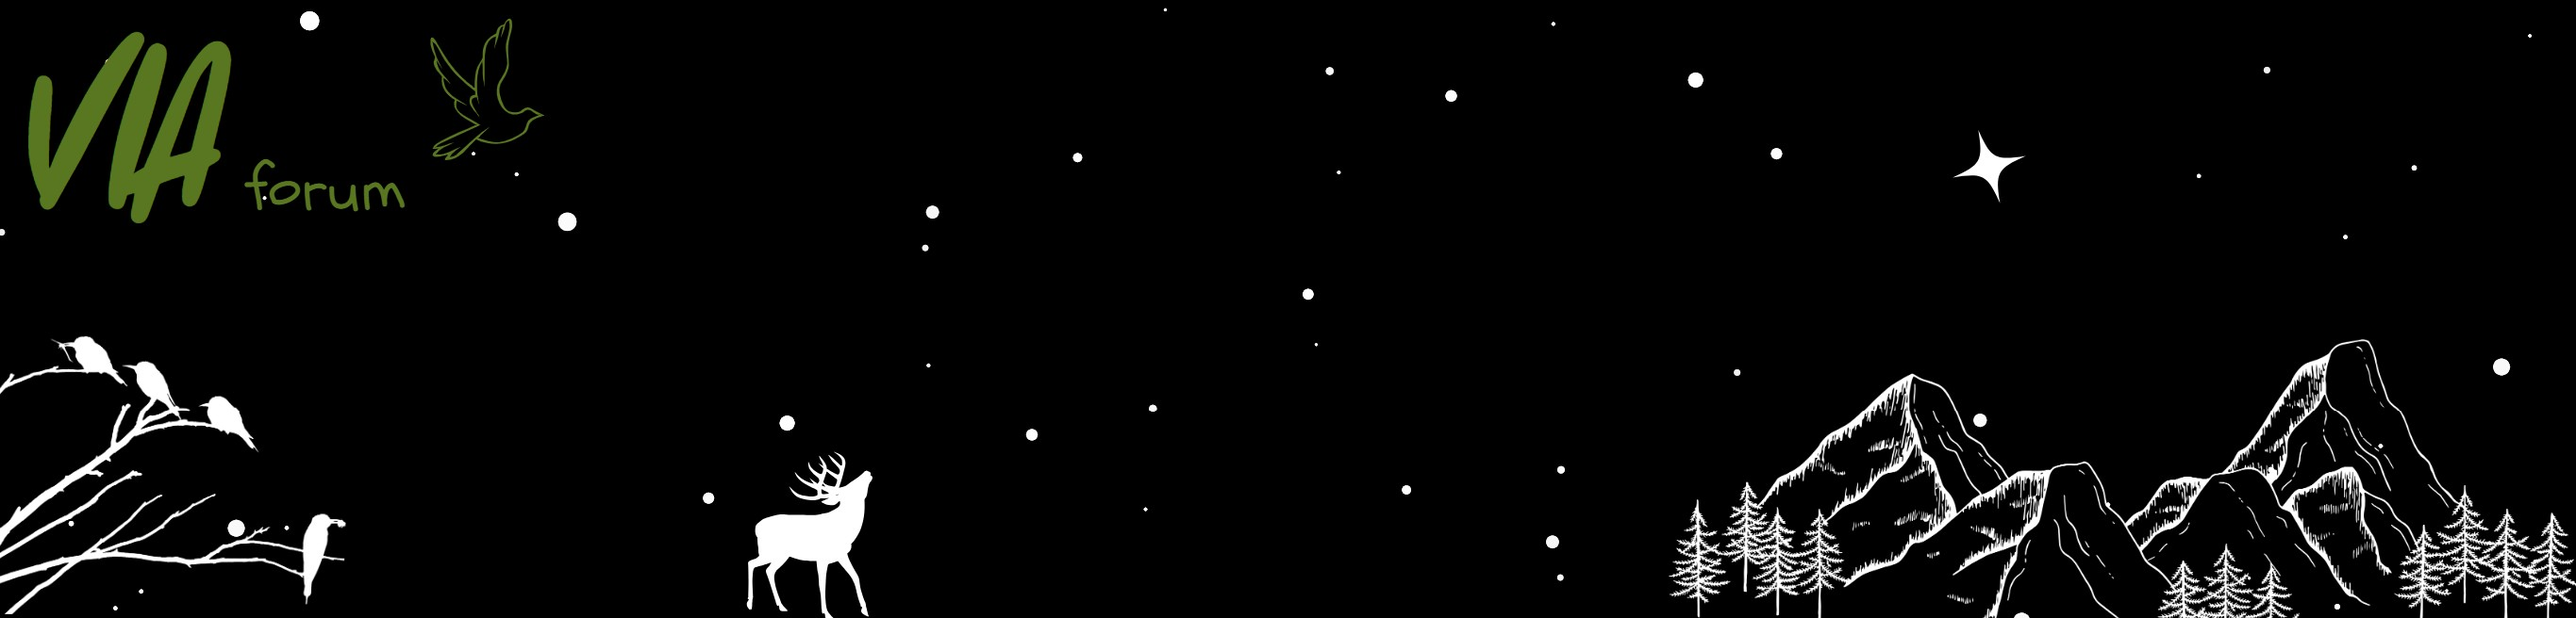
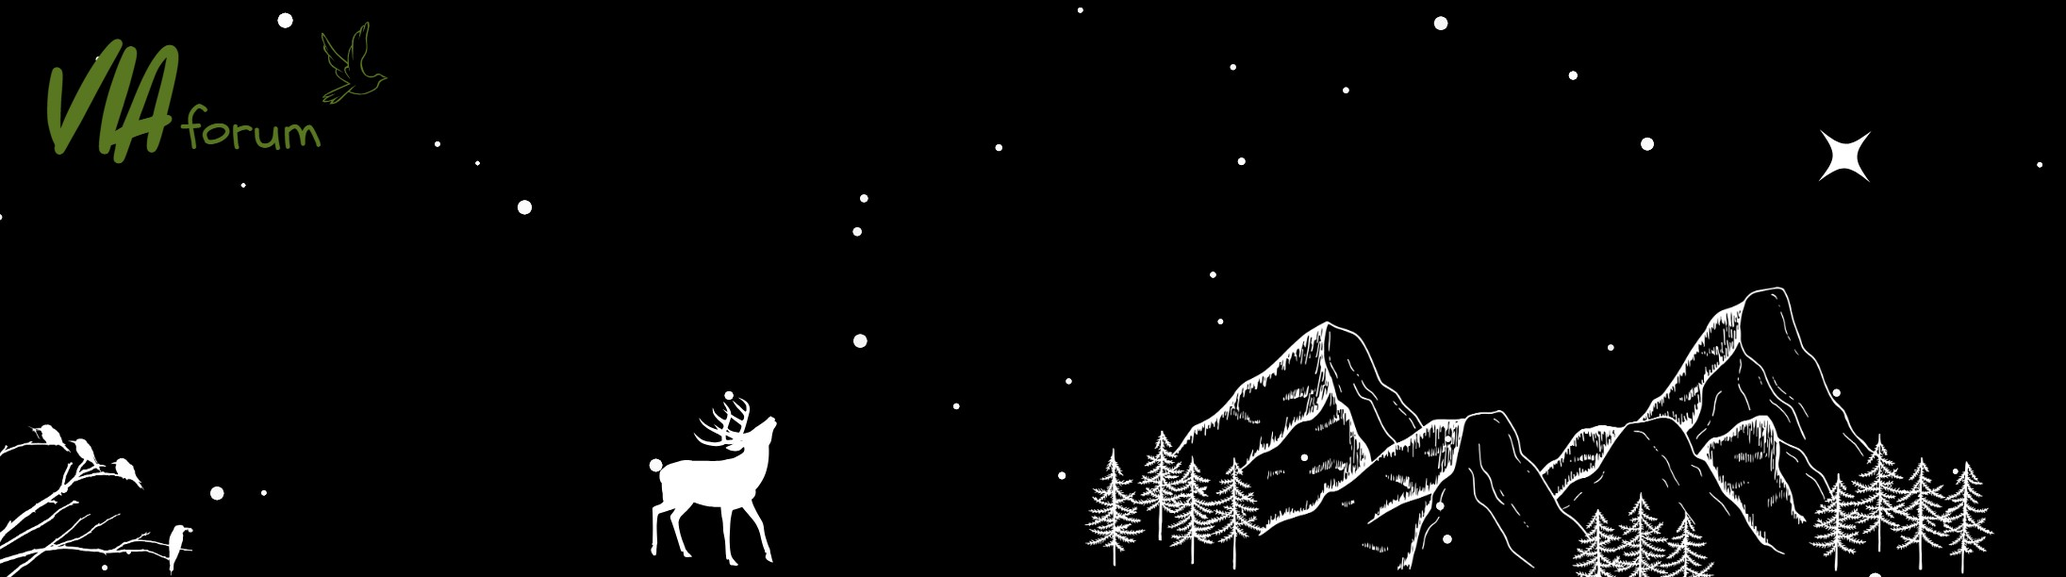
Design updates.

diff --git a/src/components/Header/Header.jsx b/src/components/Header/Header.jsx
@@ -1,5 +1,11 @@
 import { NavLink, useNavigate } from "react-router-dom"
+import { AppContext } from "../../store/app.context"
+import { useContext } from "react"
+import { signOut } from "firebase/auth";
+import { auth } from "../../config/firebase-config";
 import './Header.css'
+import { useReducer } from "react";
+
 export default function Header() {
     const navigate = useNavigate();
 
@@ -11,11 +17,32 @@ export default function Header() {
         navigate('/login');
     }
 
+    const { user, userData, setAppState } = useContext(AppContext);
+    
+    const logout = () => {
+      signOut(auth)
+        .then(() => {
+          setAppState({
+            user: null,
+            userData: null
+          });
+          navigate('/login');
+        })
+        .catch((error) => {
+          console.error(error.message);
+        })
+    }
+    
+
     return (
         <header>
             <div className="button-container">
-                <button id="btn-register" onClick={ handleRegister }>Register</button>
-                <button onClick={ handleLogin }>Login</button>
+            {!user && <button id="btn-register" onClick={ handleRegister }>Register</button>}
+            {!user && <button onClick={ handleLogin }>Login</button>}
+            {user && <button onClick={logout} id="btn-logout">Logout</button>}
+            </div>
+            <div className="welcome-container">
+                {userData && <span>Welcome, {userData.firstName}!</span>}
             </div>
         </header>
     )

diff --git a/src/components/Header/Header.css b/src/components/Header/Header.css
@@ -4,11 +4,13 @@ header {
     align-items: flex-start;
     justify-content: flex-end;
     position: relative;
-    height: 45vh;
     margin: 0;
     background: url("../../common/images/Header.jpg") no-repeat;
-    background-size: contain;
+    background-size: cover;
+    background-position: center;
     border: none;
+    height: 50vh;
+    min-width: 100%;
 }
 
 header .button-container {
@@ -22,7 +24,7 @@ button {
     background-color: #4e7800;
     color: white;
     border: none;
-    padding: 0.5rem 1rem;
+    padding: 0.5rem 1rem 0.5rem 1rem;
     border-radius: 0.25rem;
     cursor: pointer;
 }
@@ -33,3 +35,19 @@ button {
     text-decoration: underline;
 }
 
+.welcome-container {
+    display: flex;
+    justify-content: center;
+    align-items: center;
+    width: 100%;
+    position: absolute;
+    top: 50%;
+    transform: translateY(-50%);
+    text-align: center;
+}
+
+span {
+    color: white;
+    font-size: 1.5rem;
+    font-weight: bold;
+}

diff --git a/src/App.jsx b/src/App.jsx
@@ -46,18 +46,18 @@ export default function App()  {
 
     return (
       <BrowserRouter>
-          <Header></Header>
-          <div id="body-id">
-              <AppContext.Provider value={{ ...appState, setAppState }}>
+          <AppContext.Provider value={{ ...appState, setAppState }}>
+              <Header></Header>
+              <div id="body-id">
                   <Routes>
                       <Route path="/" element={<Home />} />
                       <Route path="/register" element={<Register />} />
                       <Route path="/login" element={<Login />} />
                       <Route path="*" element={<NotFound/>} />          
                   </Routes>
-              </AppContext.Provider>
-          </div>
-          <Footer></Footer>
+              </div>
+              <Footer></Footer>
+          </AppContext.Provider>
       </BrowserRouter>
     )
 }

diff --git a/src/App.css b/src/App.css
@@ -1,9 +1,38 @@
-#body-id {
-    font-family: 'Gill Sans', 'Gill Sans MT', Calibri, 'Trebuchet MS', sans-serif;
+html, body {
+    height: 100%;
     margin: 0;
     padding: 0;
+    display: flex;
+    flex-direction: column;
+}
+
+header {
+    margin: 0; 
+    padding: 0;
+}
+
+#body-id {
+    margin: 0;
+    flex: 1;
     display: flex;
     align-items: flex-start;
     justify-content: center;
     position: relative;
+    min-height: 450px;
+    background-color: rgba(188, 186, 186, 0.8);
+}
+
+:root {
+    font-family: 'Gill Sans', 'Gill Sans MT', Calibri, 'Trebuchet MS', sans-serif;
+}
+
+footer {
+    width: 100%;
+    background-color: #929292;
+    color: white;
+    text-align: center;
+    padding: 1rem;
+    position: relative;
+    bottom: 0;
+    margin: 0;
 }

diff --git a/src/index.css b/src/index.css
@@ -6,4 +6,5 @@
 
 :root {
     background: url('../../common/images/background.jpg') no-repeat;
+    min-width: 980px;
 }
